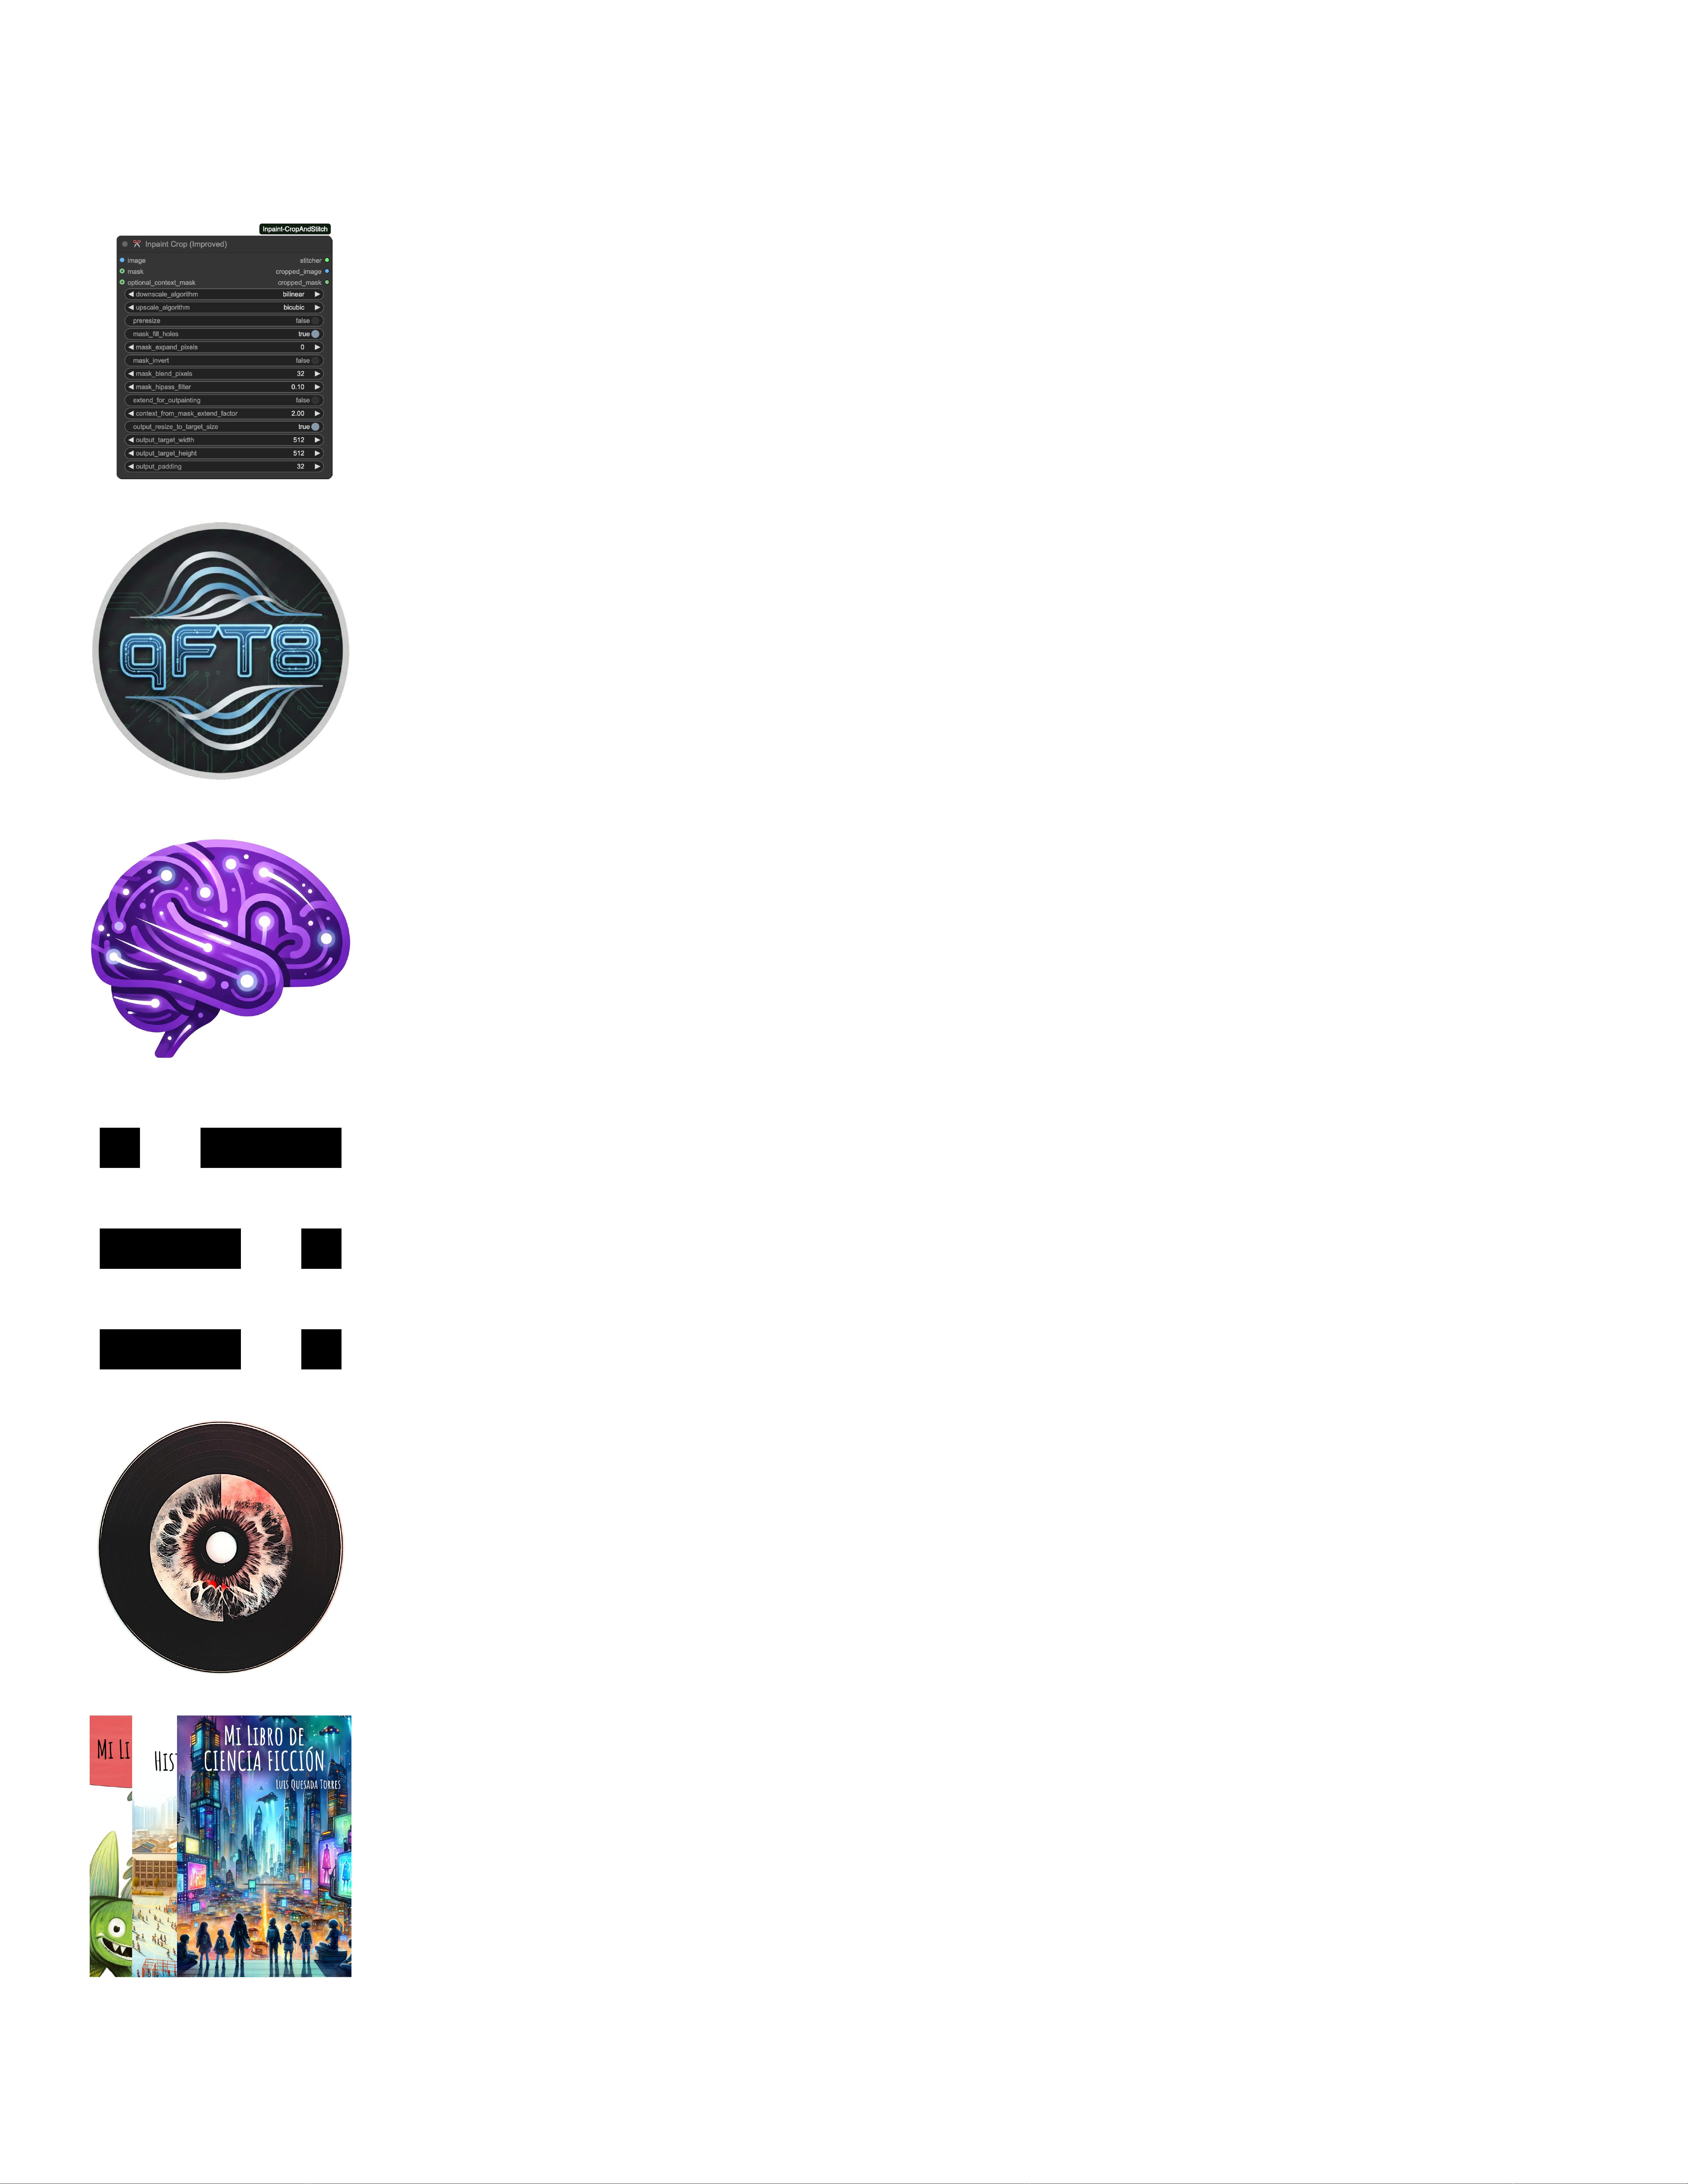
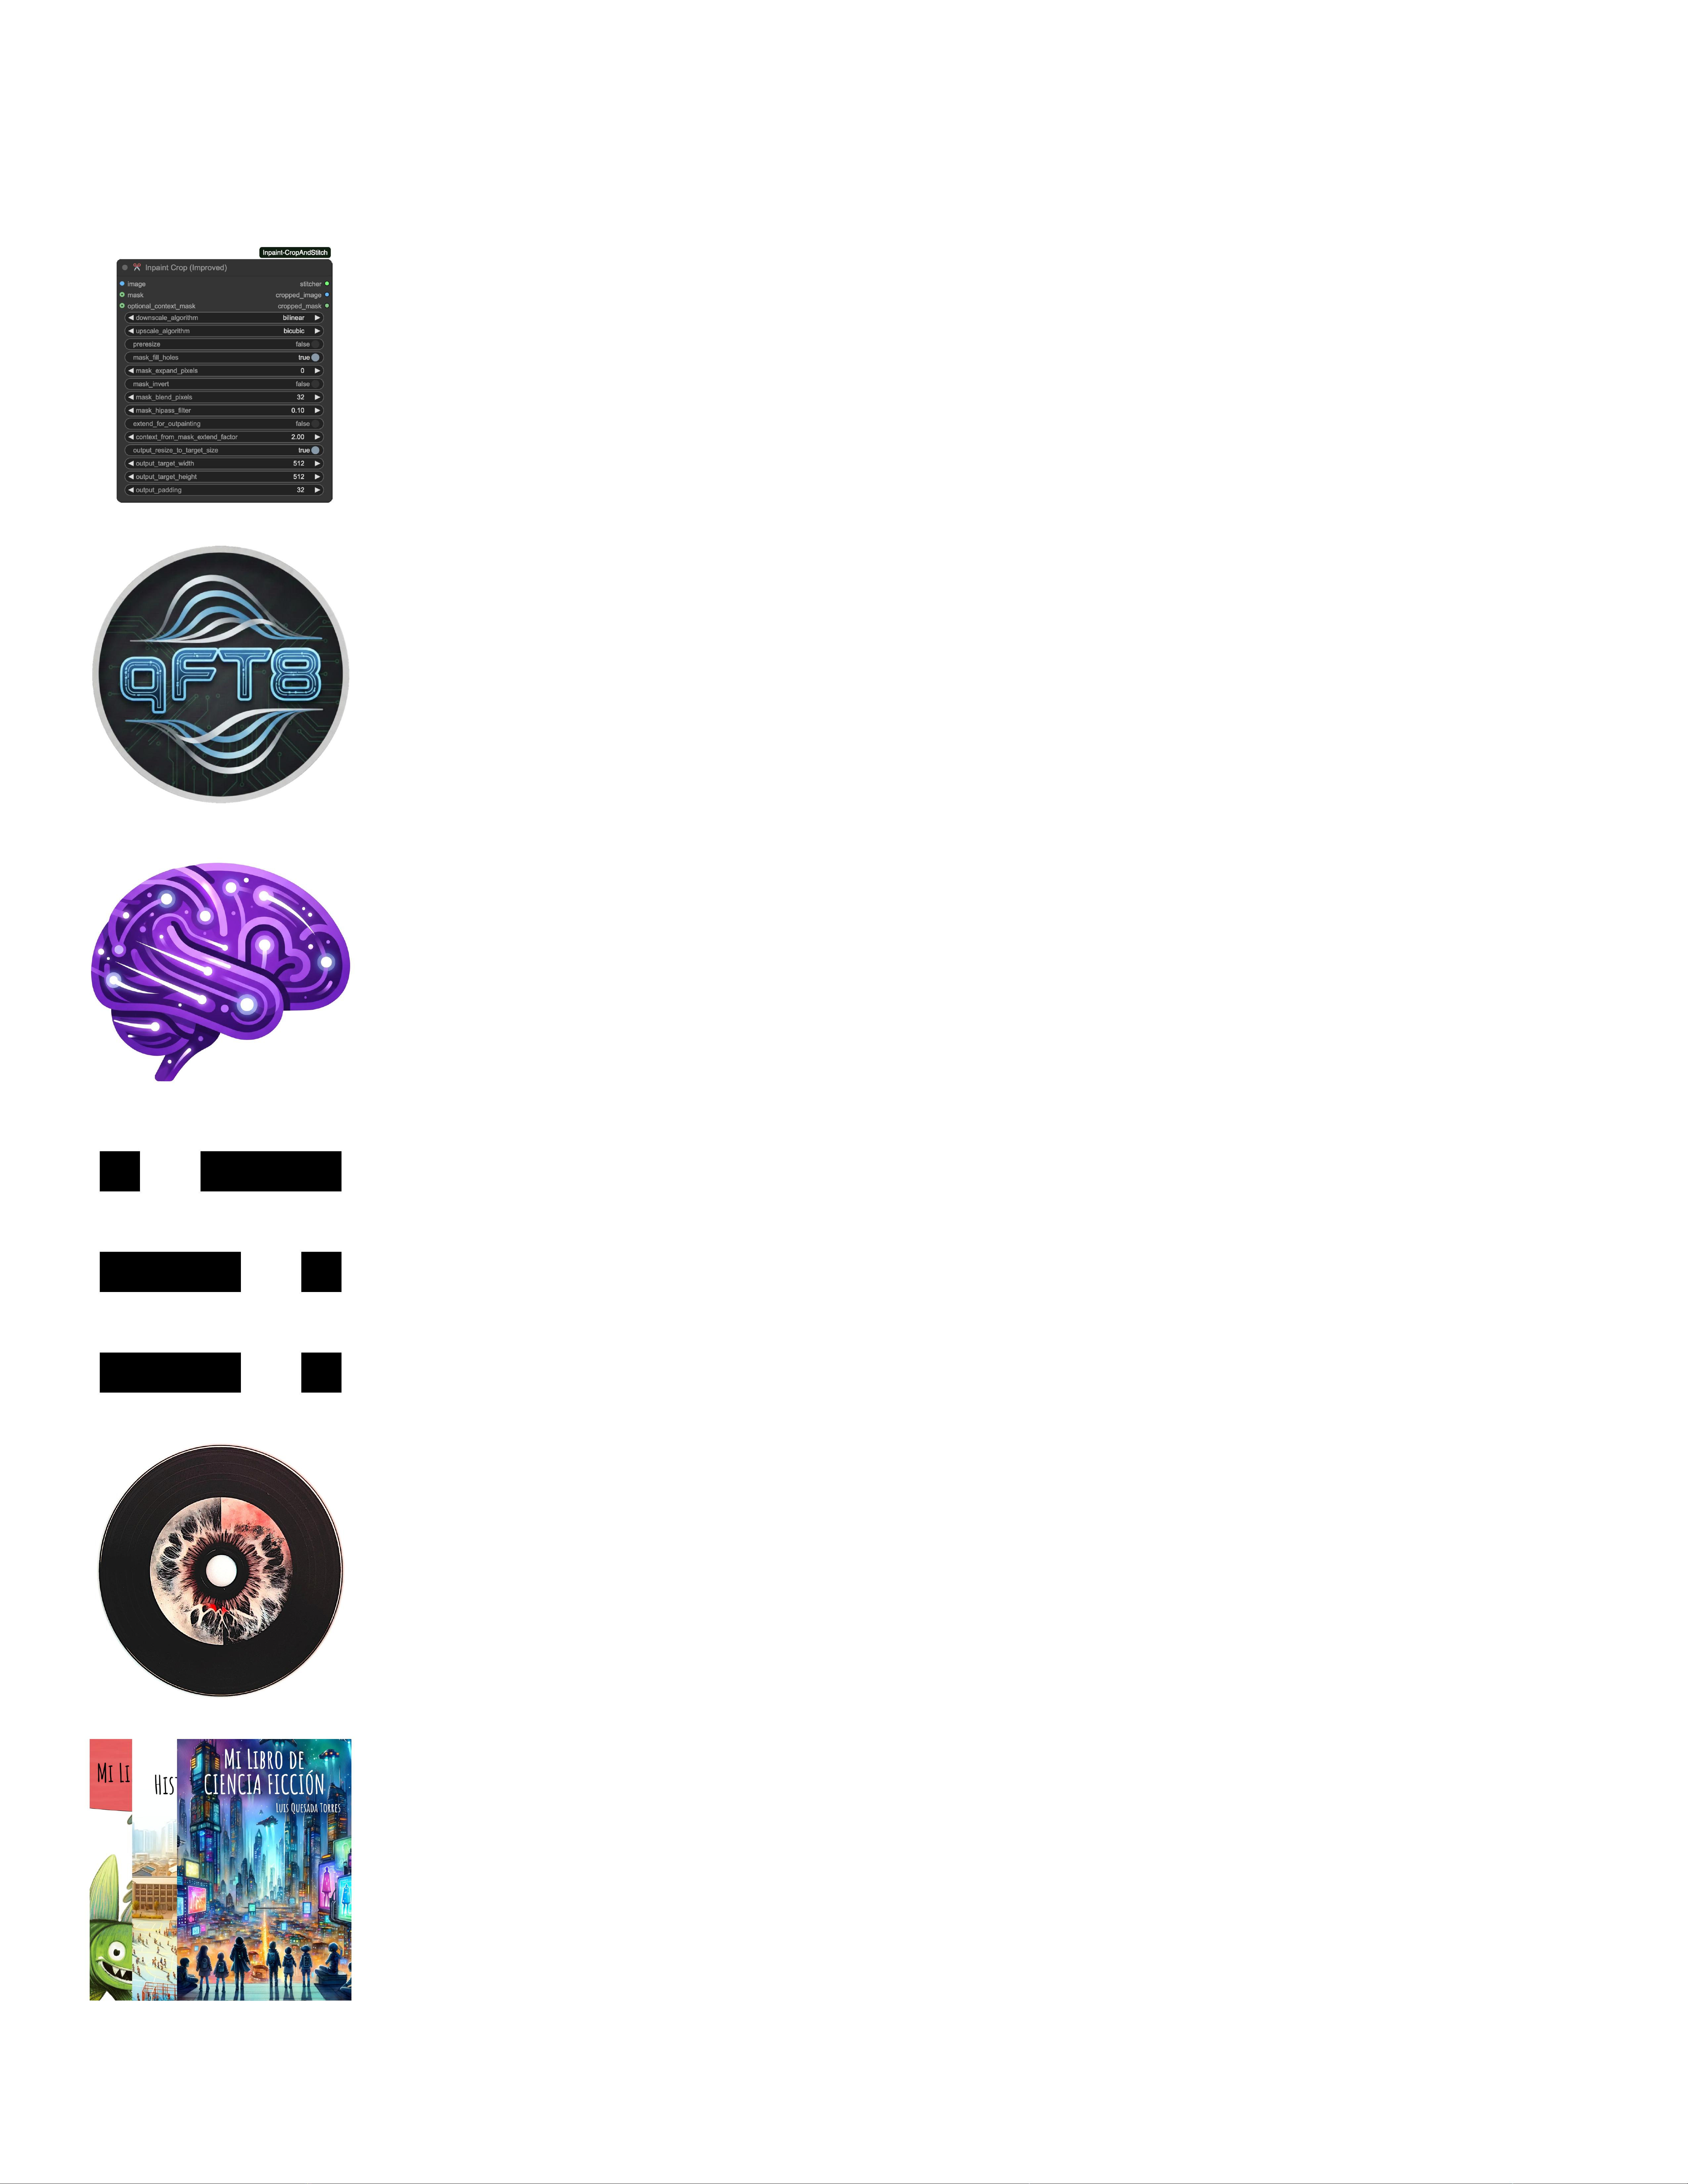
Update

Changed region(s): [[0.0312, 0.0936, 0.2182, 0.9362]]

diff --git a/resume.tex b/resume.tex
@@ -116,7 +116,10 @@ includefoot]{geometry}
 % SIZEMARKER: Left vs. right columns
 \newenvironment{body}
 {\par\par
-\begin{longtable}{p{0.145\textwidth}p{0.81\textwidth}}}
+\begin{longtable}{p{0.145\textwidth}p{0.81\textwidth}}
+\endfirsthead
+\noalign{\vspace{0.4cm}}
+\endhead}
 {\par\end{longtable}\par}
 
 \newenvironment{portfoliobody}
@@ -279,7 +282,6 @@ Strategic Engineering Leader with a proven track record of architecting and exec
 \item Led the company-wide migration to a new storage service. \textbf{Award}: \sref{Google-Award-FeatsOfEngineering-2018.pdf}{Feats of Engineering}
 \end{comp}
 \itemspacing
-
 %%%%%%%%%%%%%%%
 %% ADVOCACY %%
 %%%%%%%%%%%%%%%
@@ -297,7 +299,7 @@ Strategic Engineering Leader with a proven track record of architecting and exec
 \item Published an article on \href{https://static.googleusercontent.com/media/sre.google/en//static/pdf/login\_winter20\_10\_torres.pdf}{capacity management best practices} in \textbf{USENIX} \textit{;login:} magazine.
 \item Published talks on \href{https://youtu.be/dhTVVWzpc4Q}{Google production environment}, \href{https://youtu.be/pOo0oKNM9I8}{resources}, and \href{https://youtu.be/d7nAGI\_NZPk}{Paxos}. Achieved \textbf{210K views}.
 \end{comp}
-
+\itemspacing
 %%%%%%%%%%%%%%%
 %% EDUCATION %%
 %%%%%%%%%%%%%%%
@@ -345,7 +347,7 @@ Spanish (Native), English (\sref{Diploma-ESOLCPE.pdf}{C2}), German (\sref{Diplom
 	{\fontsize{16pt}{16pt}\selectfont\bfseries Personal Projects using Generative Artificial Intelligence}
 \end{center}
 
-\vspace{-0.2cm}
+\vspace{0.1cm}
 
 \begin{portfoliobody}
 \includegraphics[width=0.80\linewidth,height=0.80\linewidth]{iconinpaint.jpg} &